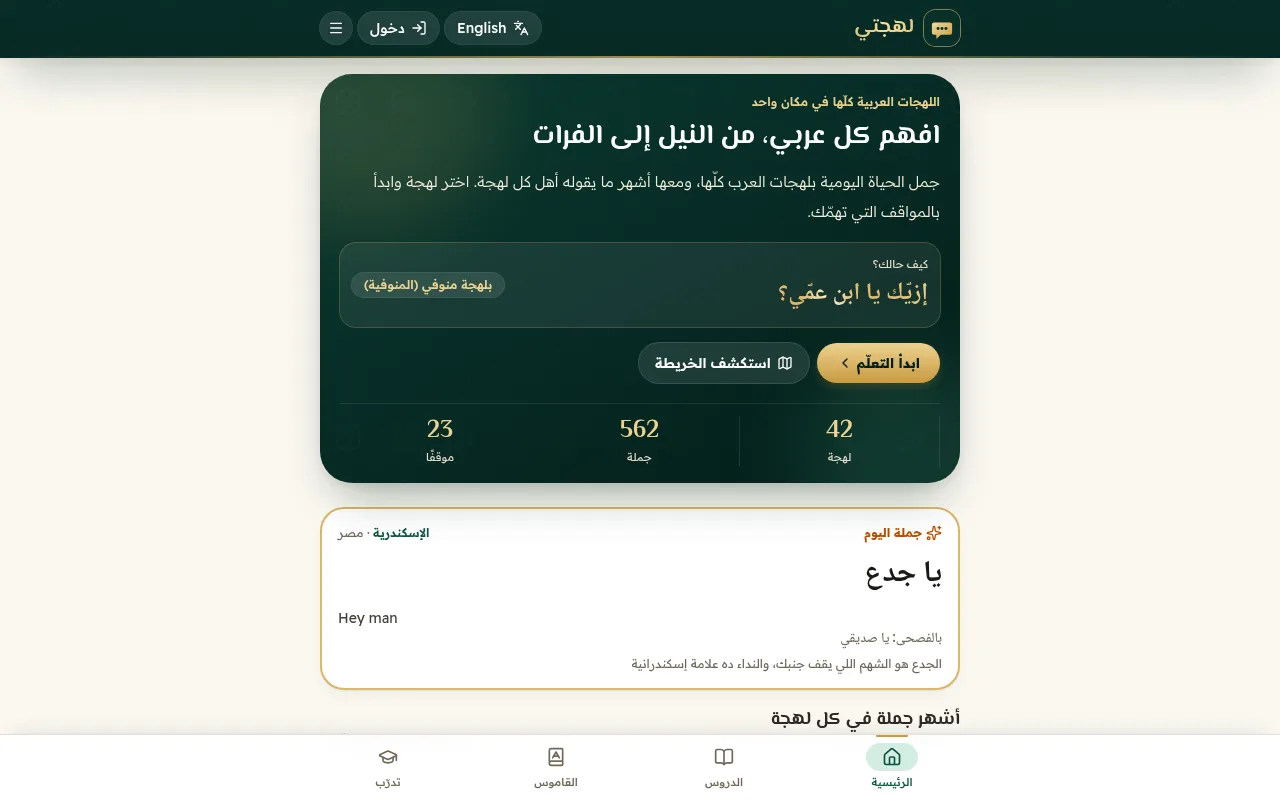
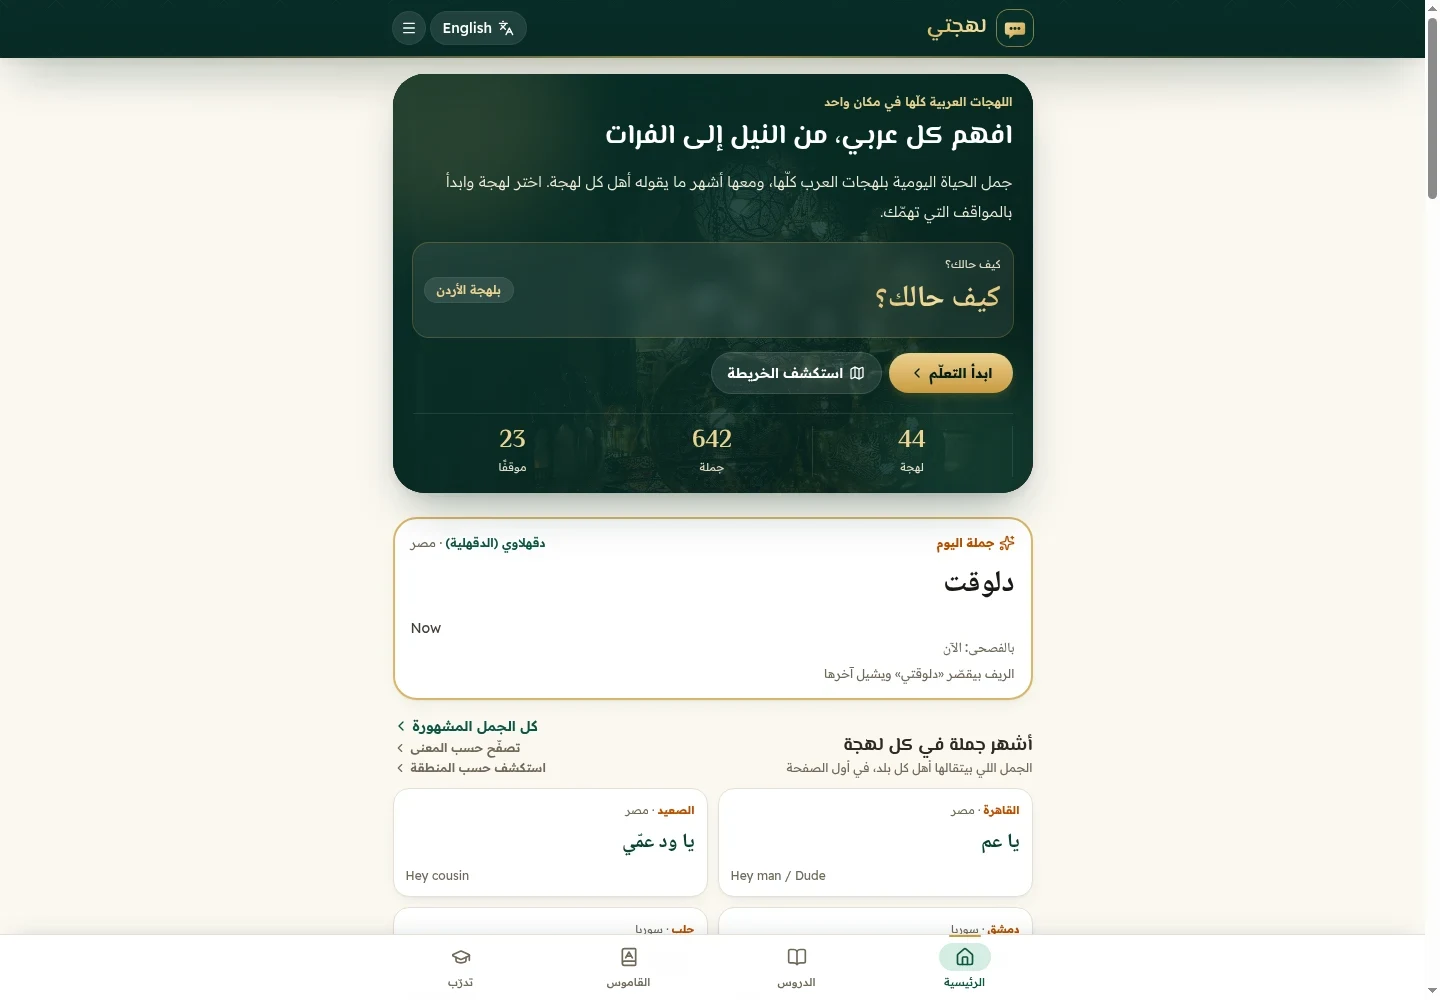
Refresh README with live screenshots and dialect tour

diff --git a/README.md b/README.md
@@ -21,6 +21,18 @@ situation, and the famous phrases of each dialect.
 
 ---
 
+## Live preview
+
+Captured from the current Arabic live site on 18 November 2026. The short GIF cycles through home, Cairo dialect phrases and the lesson list. These are actual navigation captures, not generated mockups.
+
+[![Lahjaty live home, dialect and lessons tour](docs/media/demo.gif)](https://lahjaty.pages.dev/)
+
+| Desktop | Mobile |
+| --- | --- |
+| ![Lahjaty home on desktop](docs/media/desktop.webp) | ![Lahjaty home on mobile](docs/media/mobile.webp) |
+
+[Explore Cairo phrases](https://lahjaty.pages.dev/dialects/cai/) · [Browse lessons](https://lahjaty.pages.dev/lessons/)
+
 ## Features
 
 - **Dialect picker** grouped by region, with search.
@@ -35,8 +47,8 @@ situation, and the famous phrases of each dialect.
   description, Open Graph/Twitter tags and JSON-LD.
 - **Works offline** — a service worker caches pages, assets, audio and share cards.
 
-The content keeps growing, so nothing in the app or the docs states a fixed number of
-dialects or phrases.
+The content keeps growing. Counts visible in these screenshots describe the capture
+date, not a permanent catalog size.
 
 ## Stack
 
